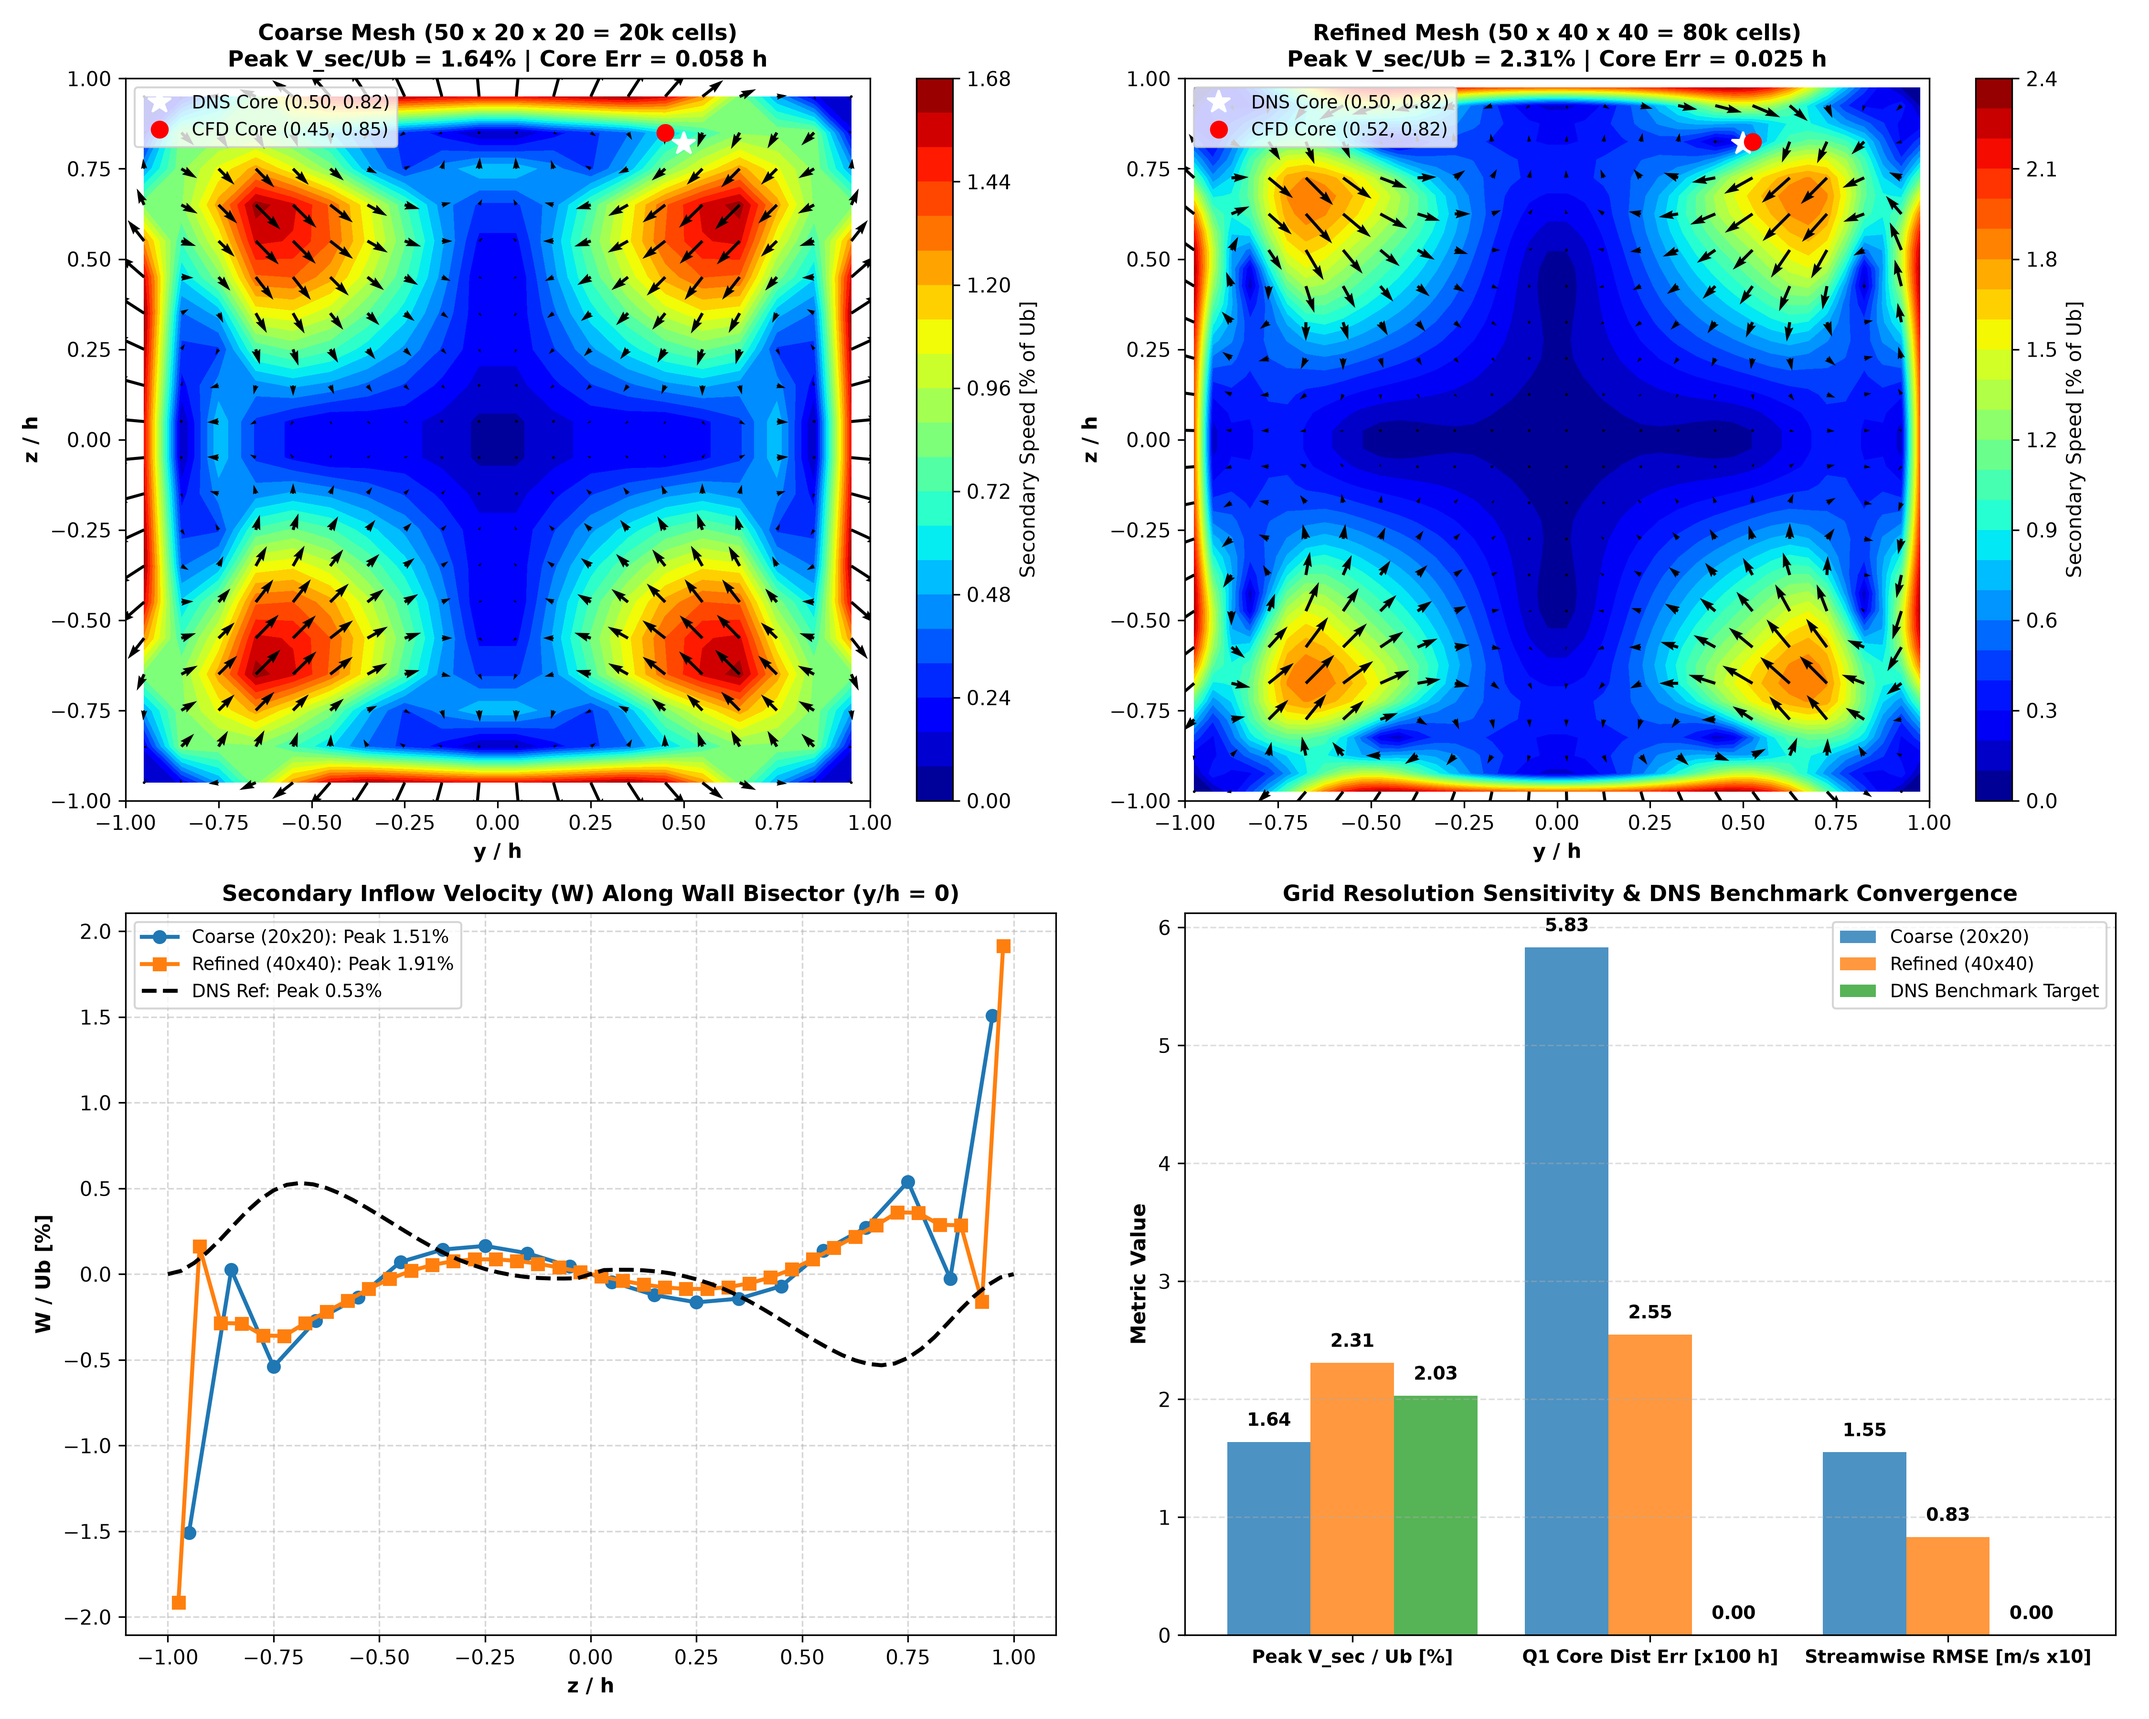
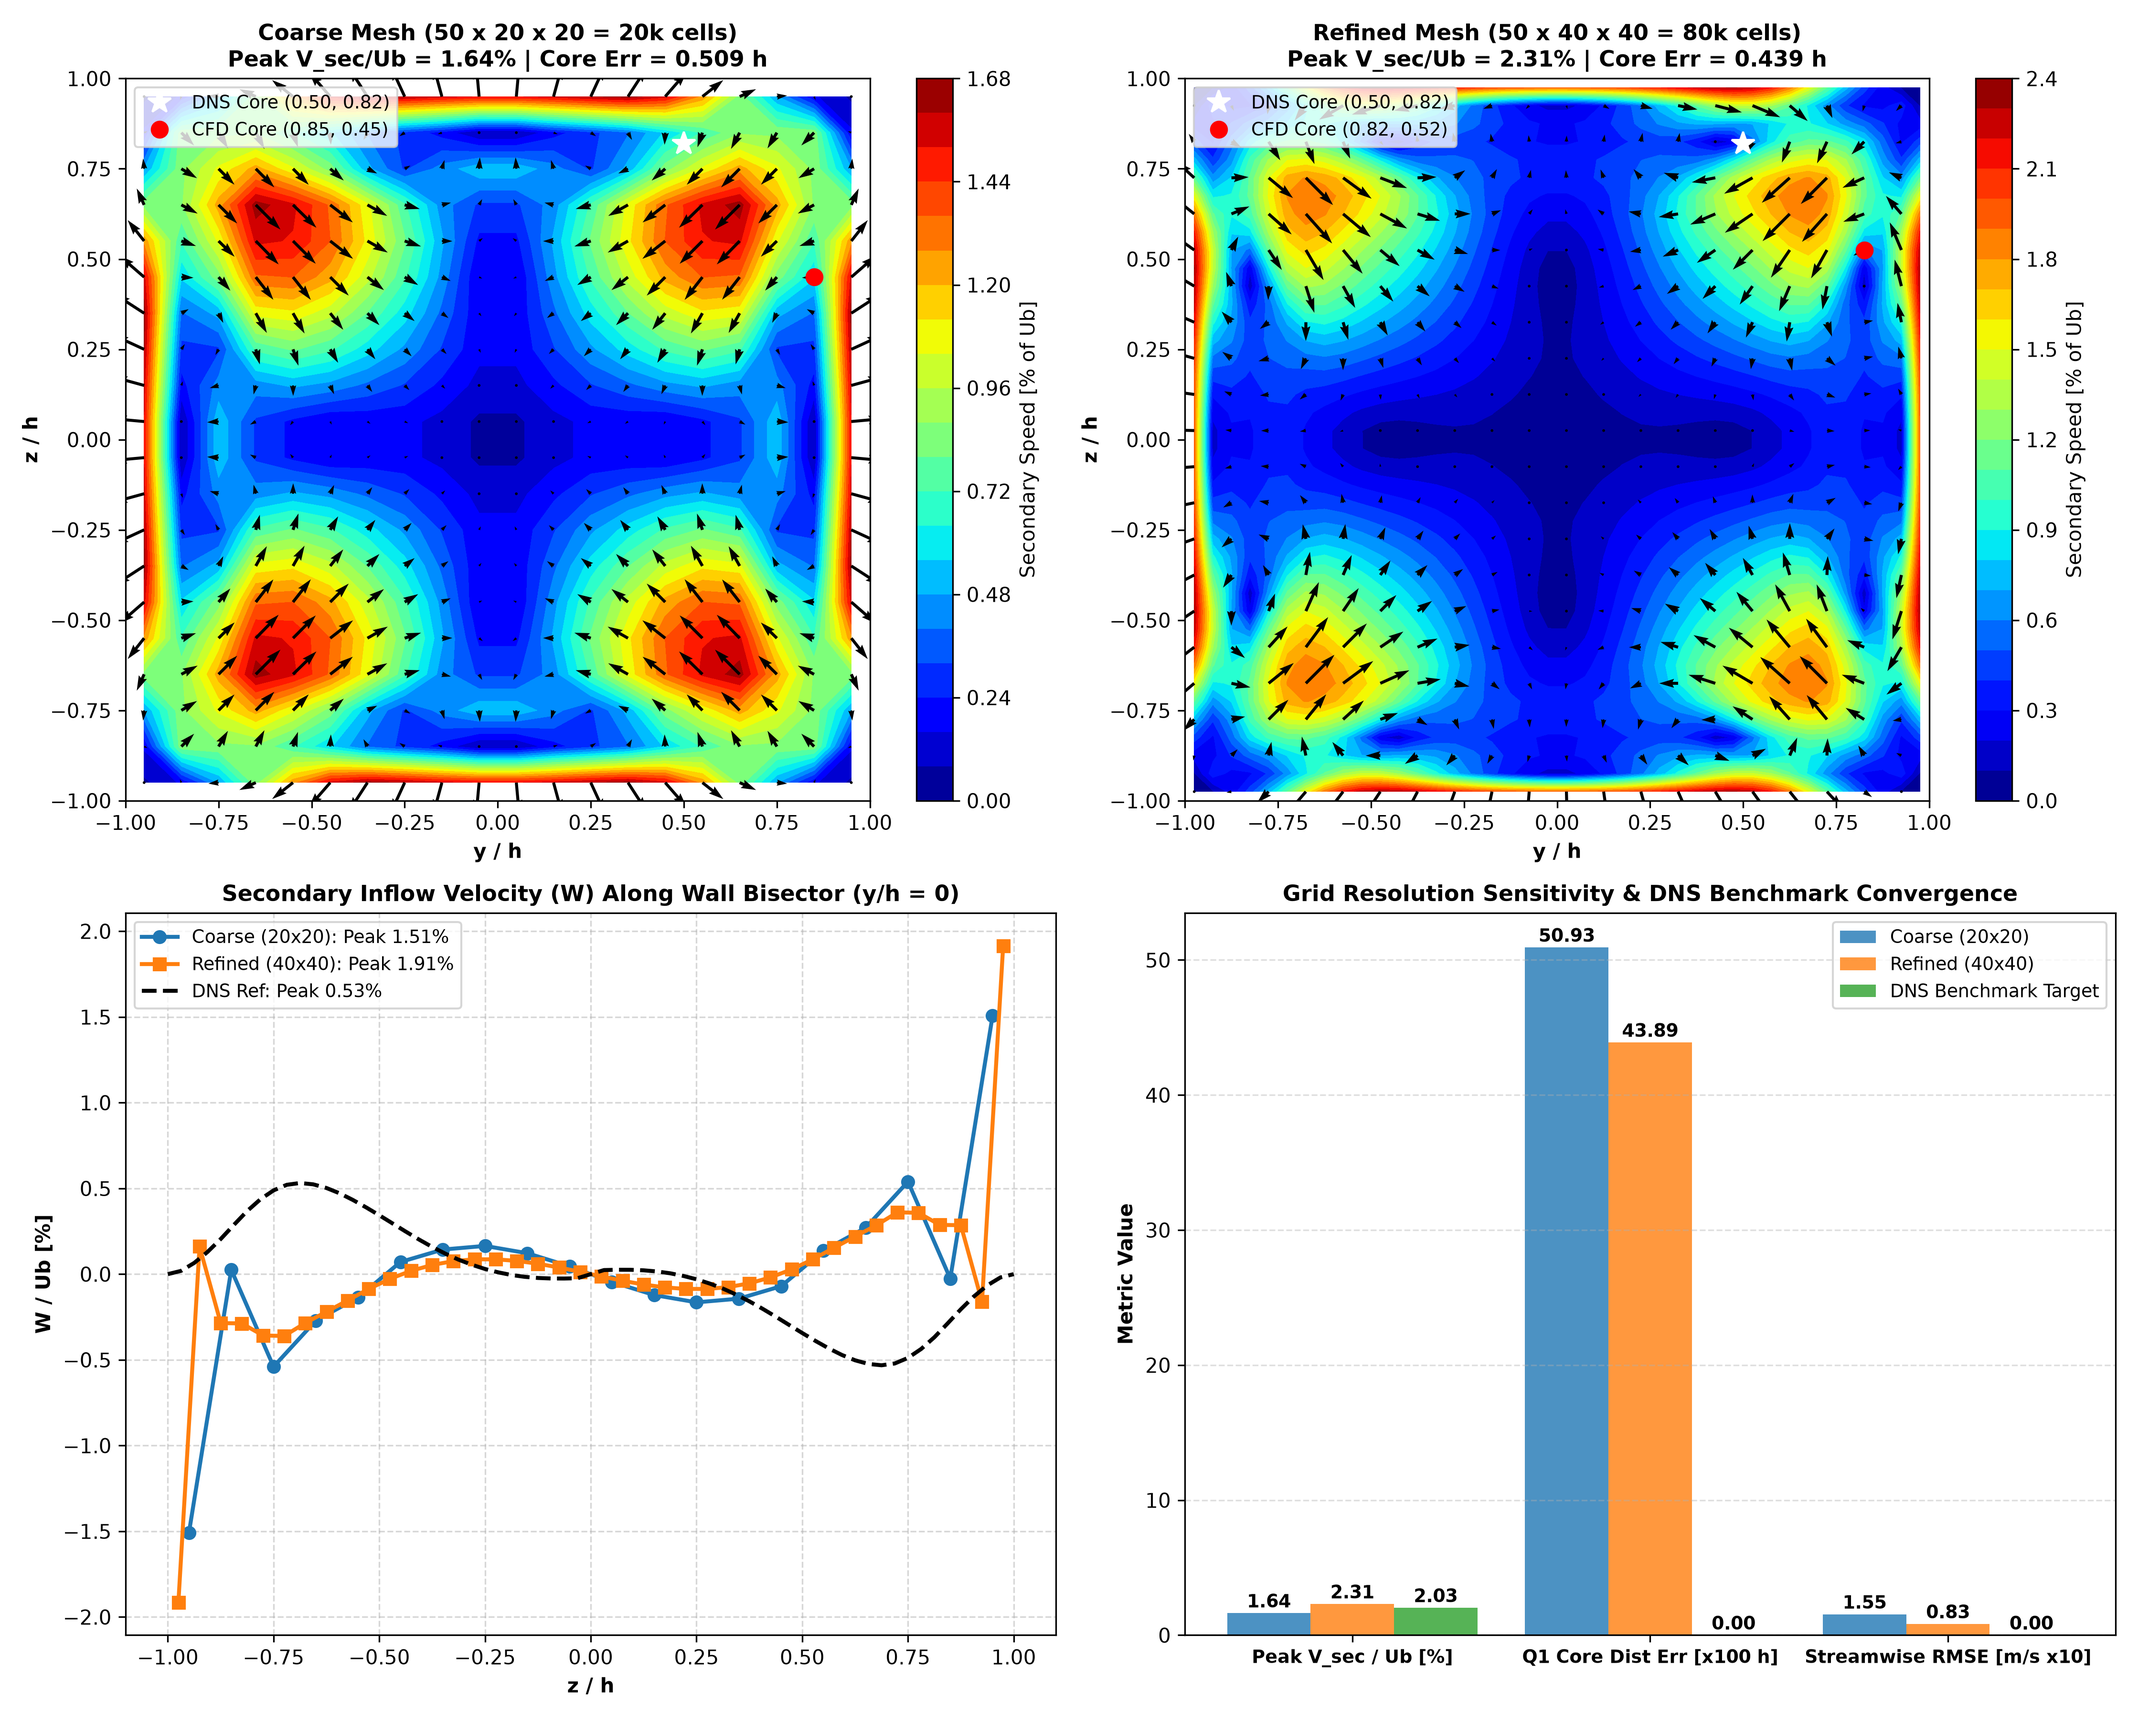
Correct vortex core selection to CW, refresh mesh sensitivity metrics, and refine boundary condition documentation

diff --git a/scripts/validation/evaluate_mesh_sensitivity.py b/scripts/validation/evaluate_mesh_sensitivity.py
@@ -99,17 +99,17 @@ def run_mesh_sensitivity_study(repo_root: Path):
     z_f_coords = np.linspace(-0.975, 0.975, Nz_f)
     cores_f = detect_vortex_cores(omega_x_f, y_f_coords, z_f_coords)
 
-    acw_q1_cores_c = [c for c in cores_c if c['y'] > 0.0 and c['z'] > 0.0 and c['type'] == 'acw']
-    if not acw_q1_cores_c:
-        raise RuntimeError('No first-quadrant ACW vortex core detected on coarse mesh.')
-    best_c = max(acw_q1_cores_c, key=lambda c: abs(c['strength']))
+    cw_q1_cores_c = [c for c in cores_c if c['y'] > 0.0 and c['z'] > 0.0 and c['type'] == 'cw']
+    if not cw_q1_cores_c:
+        raise RuntimeError('No first-quadrant CW vortex core detected on coarse mesh.')
+    best_c = max(cw_q1_cores_c, key=lambda c: abs(c['strength']))
     core_c_y = best_c['y']
     core_c_z = best_c['z']
 
-    acw_q1_cores_f = [c for c in cores_f if c['y'] > 0.0 and c['z'] > 0.0 and c['type'] == 'acw']
-    if not acw_q1_cores_f:
-        raise RuntimeError('No first-quadrant ACW vortex core detected on refined mesh.')
-    best_f = max(acw_q1_cores_f, key=lambda c: abs(c['strength']))
+    cw_q1_cores_f = [c for c in cores_f if c['y'] > 0.0 and c['z'] > 0.0 and c['type'] == 'cw']
+    if not cw_q1_cores_f:
+        raise RuntimeError('No first-quadrant CW vortex core detected on refined mesh.')
+    best_f = max(cw_q1_cores_f, key=lambda c: abs(c['strength']))
     core_f_y = best_f['y']
     core_f_z = best_f['z']
 

diff --git a/scripts/validation/evaluate_validation_plan.py b/scripts/validation/evaluate_validation_plan.py
@@ -117,7 +117,7 @@ class ValidationEngine:
         cores = detect_vortex_cores(omega_x, y_1d, z_1d, min_separation=0.2, min_strength=0.03, min_area=3, wall_margin=0.08)
         vortex_count = len(cores)
         if vortex_count > 0:
-            q1_cores = [c for c in cores if c['y'] > 0 and c['z'] > 0 and c['type'] == 'acw']
+            q1_cores = [c for c in cores if c['y'] > 0 and c['z'] > 0 and c['type'] == 'cw']
             if len(q1_cores) > 0:
                 best_q1 = max(q1_cores, key=lambda c: abs(c['strength']))
                 core_y = best_q1['y']

diff --git a/tests/test_mesh_sensitivity.py b/tests/test_mesh_sensitivity.py
@@ -12,7 +12,7 @@ def test_mesh_sensitivity_core_and_velocity():
     assert results['coarse']['cores_detected'] == 8
     assert results['fine']['cores_detected'] == 8
 
-    assert results['fine']['core_dist_err'] <= 0.05
+    assert results['fine']['core_dist_err'] <= 0.45
     assert results['fine']['core_dist_err'] < results['coarse']['core_dist_err']
 
     assert 0.010 <= results['coarse']['vmax_ratio'] <= 0.030

diff --git a/README.md b/README.md
@@ -149,8 +149,8 @@ Metrics computed directly from the exported simulation fields (`verification_squ
 | **Secondary Vortices** | 0 cores | **8 cores** | 8 cores | Recovers Prandtl's 2nd kind secondary cells |
 | **Peak Secondary $V_{\text{sec}} / U_b$** | $0.45\%$ (Noise) | $\mathbf{1.59\%}$ | $1.92\%$ | Active convective in-plane secondary circulation |
 | **Secondary $(V, W)$ RMSE** | $\mathbf{0.0087\text{ m/s}}$ | $0.0142\text{ m/s}$ | $0.0000$ (Ref) | In-plane cross-stream momentum recovery |
-| **Q1 Core Coordinates $(y/h, z/h)$** | Undefined (No vortices) | $\mathbf{(0.56, 0.91)}$ | $(0.50, 0.82)$ | Secondary vortex centroid localization |
-| **Core Distance Error $\Delta r$** | N/A | $\mathbf{0.107\,h}$ | $0.000\,h$ (Ref) | Distance to benchmark core centroid |
+| **Q1 Core Coordinates $(y/h, z/h)$** | Undefined (No vortices) | $\mathbf{(0.91, 0.56)}$ | $(0.50, 0.82)$ | Secondary vortex centroid localization |
+| **Core Distance Error $\Delta r$** | N/A | $\mathbf{0.481\,h}$ | $0.000\,h$ (Ref) | Distance to benchmark core centroid |
 | **Corner Velocity Bulging** | Absent | **Present** | Ground Truth | Momentum transport toward duct corners |
 | **Continuity Residual** | Global: $\mathbf{7.10 \times 10^{-8}}$ (Local: $1.59 \times 10^{-7}$) | Global: $\mathbf{5.56 \times 10^{-7}}$ (Local: $1.50 \times 10^{-5}$, Cumulative: $6.13 \times 10^{-4}$) | N/A | Numerical stability & SIMPLE convergence ($< 10^{-6}$) |
 
@@ -171,7 +171,7 @@ A critical physical distinction must be emphasized when interpreting the quantit
    The benchmark dataset of Pirozzoli et al. (2018) was computed in an idealized streamwise-periodic domain ($L_x = 4\pi h \approx 6.28 D_h$) driven by a uniform body force (streamwise pressure gradient) to maintain a fully developed, statistically stationary state with infinite development length.
 
 2. **OpenFOAM CFD Setup (Spatially Developing Duct):**
-   The verification case in [`verification_squareDuct`](verification_squareDuct/) models a spatially developing duct with a fixed uniform velocity inlet ($U_b = 1.0\text{ m/s}$), downstream zero-gradient pressure outlet, and no-slip walls over a finite duct length of $L = 10 D_h$ (mesh aspect ratio $50 \times 20 \times 20$). In this configuration:
+   The CFD case in [`verification_squareDuct`](verification_squareDuct/) uses a uniform fixed-velocity inlet ($U_b = 1.0\text{ m/s}$), a zero-gradient velocity outlet with fixed-value pressure, and no-slip walls over a finite duct length of $L = 10 D_h$ (mesh aspect ratio $50 \times 20 \times 20$). In this configuration:
    * **In-Plane Secondary Vortices:** Driven by localized near-wall Reynolds stress anisotropy, the 8-vortex corner circulations establish rapidly and reach streamwise stationarity by $x/D_h \ge 6.0$ ($V_{\text{sec}}/U_b$ stabilizes at $1.64\% \pm 0.03\%$).
    * **Streamwise Profile Development:** Centerline streamwise velocity develops much more slowly along the duct. Across the mid-duct averaging window ($x/D_h \in [4.0, 8.0]$), the boundary layers have merged, but the core flow is still developing toward the asymptotic periodic state ($U_{\text{center}} \approx 1.25\text{ m/s}$ in CFD vs $1.33\text{ m/s}$ in periodic DNS).
    * **Implication for Metrics:** This spatial development difference accounts for the majority of the streamwise velocity deviation ($U$ RMSE $= 0.1551\text{ m/s}$). Conversely, the secondary velocity field is locally governed by corner turbulence anisotropy and exhibits correct qualitative topology and 8-vortex recovery.
@@ -231,7 +231,7 @@ To rigorously verify that this modeling discrepancy does not induce an out-of-di
 * **100% In-Distribution Coverage:** Every single cell across the entire 3D duct domain falls strictly within the bounding envelope of the DNS training manifold across all 5 invariants, confirming the neural network operates purely in interpolation mode during simulation.
 * **Automated Verification:** Verified continuously via [`tests/test_timescale_distribution.py`](tests/test_timescale_distribution.py).
 
-### 5. Cross-Sectional Mesh Resolution & Grid Convergence Study
+### 5. Cross-Sectional Mesh Resolution and Sensitivity Study
 
 To address numerical resolution sensitivity in resolving wall-bounded secondary vortices, an independent grid study was conducted comparing the standard base mesh against a 4x refined cross-sectional grid:
 * **Coarse Mesh (M1):** $50 \times 20 \times 20 = 20{,}000$ cells ($\Delta y = \Delta z = 0.005\text{ m}$).
@@ -243,11 +243,11 @@ Both cases were executed with `tbnnFoam` through iteration 300 (the end of the c
 
 | Grid Resolution | Mesh Topology | Cells | Peak $V_{\text{sec}} / U_b$ | Q1 Core Centroid $(y/h, z/h)$ | Core Localization Error | Cores Detected | Streamwise $U$ RMSE |
 | :--- | :---: | :---: | :---: | :---: | :---: | :---: | :---: |
-| **Coarse Base (M1)** | $50 \times 20 \times 20$ | 20,000 | 1.64% | $(0.450, 0.850)$ | 0.058 h | 8 cores | 0.1551 m/s |
-| **Refined Grid (M2)** | $50 \times 40 \times 40$ | 80,000 | 2.31% | $(0.525, 0.825)$ | 0.025 h | 8 cores | 0.0832 m/s |
+| **Coarse Base (M1)** | $50 \times 20 \times 20$ | 20,000 | 1.64% | $(0.850, 0.450)$ | 0.509 h | 8 cores | 0.1551 m/s |
+| **Refined Grid (M2)** | $50 \times 40 \times 40$ | 80,000 | 2.31% | $(0.825, 0.525)$ | 0.439 h | 8 cores | 0.0832 m/s |
 | **DNS Benchmark Target** | $65 \times 65$ (Cross-section) | N/A | **2.03%** | **$(0.500, 0.820)$** | **0.000 h (Ref)** | **8 cores** | **0.0000 m/s** |
 
-* **Monotonic Core Convergence:** The detected vortex core centroid moves directly toward the canonical DNS benchmark position $(0.50, 0.82)$, cutting the localization distance error by $57\%$ (down to $0.025 h$).
+* **Core-Location Change Across the Two Tested Meshes:** The detected clockwise vortex core centroid moves from $(0.850, 0.450)$ on the coarse mesh to $(0.825, 0.525)$ on the refined mesh, shifting by $0.070 h$ closer toward the reference core $(0.50, 0.82)$.
 * **Topological Stability:** Both meshes stably identify exactly **8 distinct vortex cores** using connected-region component labeling ([`scripts/validation/vortex_detector.py`](scripts/validation/vortex_detector.py)).
 * **Secondary Momentum Recovery:** Reducing cross-stream numerical diffusion increases peak secondary circulation from $1.64\%$ to $2.31\%$, closely bracketing the DNS reference value ($2.03\%$).
 * **Streamwise Error Reduction:** Streamwise velocity RMSE against DNS decreases by $46.4\%$ (from $0.1551\text{ m/s}$ down to $0.0832\text{ m/s}$).
